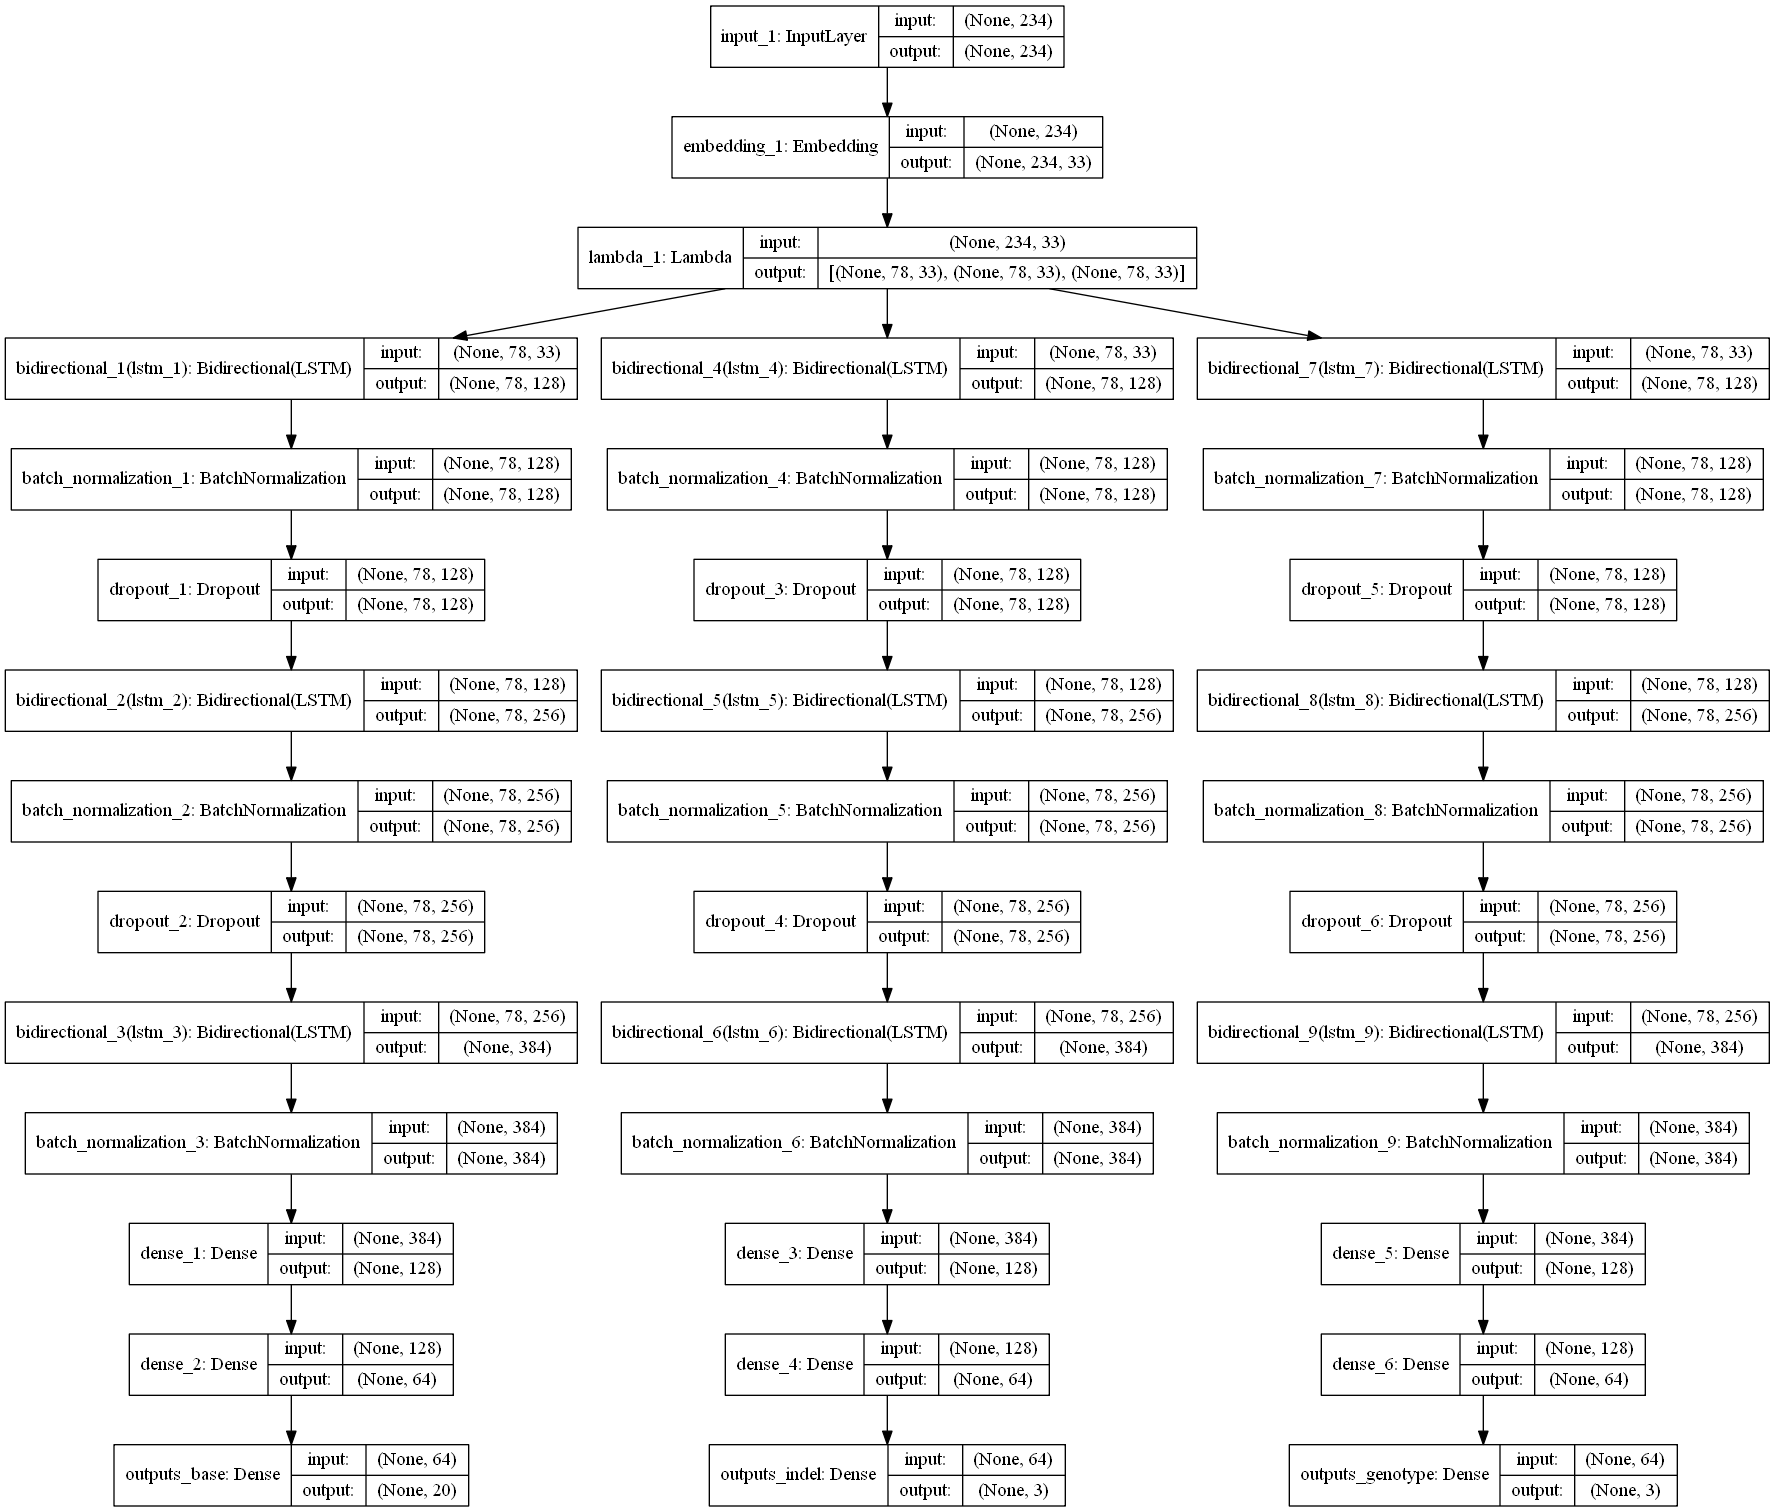
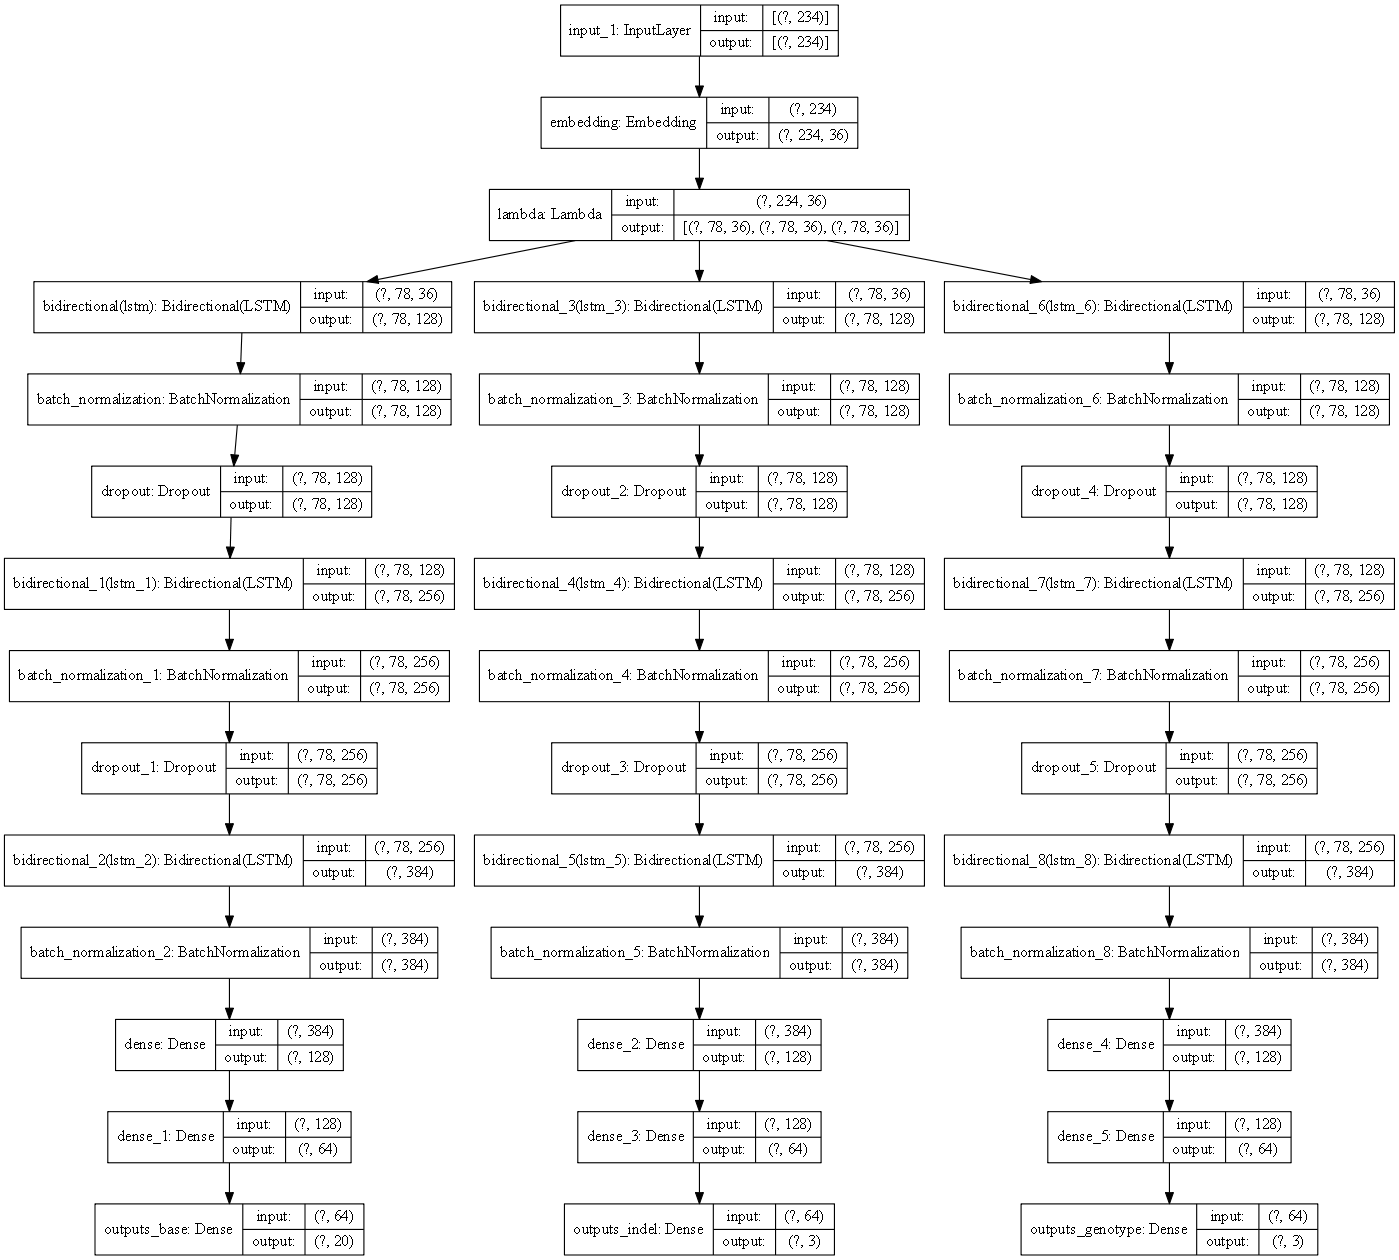
2020-06-17

diff --git a/model/scSNV_model.py b/model/scSNV_model.py
@@ -1,23 +1,9 @@
-# from keras.models import Model
-# from keras.optimizers import Adam, RMSprop
-# from keras.layers import Input, Embedding, LSTM, Bidirectional, Dense, BatchNormalization
-# from keras.layers import Dropout, Lambda
-# from keras.utils import multi_gpu_utils
-# from keras.utils.vis_utils import plot_model
-
+import tensorflow as tf
 from tensorflow.keras.layers import *
 from tensorflow.keras.models import Model
 from tensorflow.keras.optimizers import Adam, RMSprop
-from tensorflow.keras.utils import plot_model
+from tensorflow.keras.utils import plot_model, multi_gpu_model
 from tensorflow.keras.layers import Embedding
-
-
-import tensorflow as tf
-
-
-import os
-os.environ["CUDA_VISIBLE_DEVICES"] = '5, 6'
-
 
 class SCSNVMODEL:
     def __init__(self, input_shape=(234, ), n_base_labels=20, n_indel_labels=3, n_genotype_labels=3, n_lstm_outdim=64, word_maxlen=234, em_inputdim=36, em_outdim=36, lstm_layers=3, dense_layers=2, dense_num=64, drop_out=0.5, lr=0.001, gpus=2, alpha_base=[[1],[3],[3],[3],[5],[1],[3],[3],[3],[5],[1],[3],[3],[3],[5],[1],[3],[3],[3],[5]], alpha_indel=[[1],[5],[5]], alpha_genotype=[[1],[5],[3],[7]], gamma=2.0):
@@ -140,12 +126,12 @@ class SCSNVMODEL:
         outputs_genotype = Dense(self.n_genotype_labels, activation='softmax', name='outputs_genotype')(dense_genotype)
 
         model = Model(inputs=inputs, outputs=[outputs_base, outputs_indel, outputs_genotype], name='model')
+        ## 必须放到model.comile前边
+        plot_model(model, expand_nested=True, show_shapes=True, show_layer_names=True, to_file='model_strcut.png', dpi=80)
 
         # model = multi_gpu_utils(model, multi_gpu_utils=self.gpus)
         # model.compile(optimizer=RMSprop(lr=self.init_lr), loss={'outputs_base': self.multi_category_focal_loss1(self.alpha_base, self.gamma), 'outputs_indel': self.multi_category_focal_loss1(self.alpha_indel, self.gamma), 'outputs_genotype':self.multi_category_focal_loss1(self.alpha_genotype, self.gamma)}, metrics=['acc'])
         model.compile(optimizer=Adam(lr=self.init_lr), loss={'outputs_base':'categorical_crossentropy', 'outputs_indel': 'categorical_crossentropy', 'outputs_genotype':'categorical_crossentropy'}, metrics=['acc'])
-        # plot_model(model, './model_strcut.png', show_shapes=True)
-        # plot_model(model, expand_nested=True, show_shapes=True, to_file='model_strcut.png', dpi=80)
         model.summary()
         return model
 

diff --git a/model/train_process.py b/model/train_process.py
@@ -1,11 +1,8 @@
-# import keras
-import keras.backend as K
-import time
 from .train_data_generator import DataGenerator
 from .scSNV_model import SCSNVMODEL
 import time
-import tensorflow.keras
-from tensorflow.keras.callbacks import TensorBoard
+from tensorflow.keras.callbacks import TensorBoard, EarlyStopping, ModelCheckpoint, LearningRateScheduler
+import tensorflow.keras.backend as K
 
 
 def training(samples_train_data, samples_val_data, epochs=30, generator_params=None, model_params=None, hdf5_file = False, hdf5_fliename=None, mcheckpoint_dir='/home/cailei/bio_project/nbCNV/train_log/model_checkpoint/', mtensorboard_dir='/home/cailei/bio_project/nbCNV/tensorboard_logs/'):
@@ -25,11 +22,11 @@ def training(samples_train_data, samples_val_data, epochs=30, generator_params=N
     if hdf5_file and hdf5_fliename != None:
         model.load_weights(hdf5_fliename)
 
-    cb_1 = tensorflow.keras.callbacks.EarlyStopping(min_delta=0, patience=30, verbose=0, mode='auto')
-    cb_2 = tensorflow.keras.callbacks.ModelCheckpoint(filepath=mcheckpoint_dir+'model_{epoch:02d}.hdf5', verbose=0,
+    cb_1 = EarlyStopping(min_delta=0, patience=30, verbose=0, mode='auto')
+    cb_2 = ModelCheckpoint(filepath=mcheckpoint_dir+'model_{epoch:02d}.hdf5', verbose=0,
                                            save_best_only=False, save_weights_only=False, mode='auto', period=1)
     model_name = 'tensorboard_scSNV_{}'.format(int(time.time()))
-    cb_3 = tensorflow.keras.callbacks.TensorBoard(log_dir=mtensorboard_dir+'{}'.format(model_name))
+    cb_3 = TensorBoard(log_dir=mtensorboard_dir+'{}'.format(model_name))
 
     def scheduler(epoch):
         # 每隔100个epoch，学习率减小为原来的1/10
@@ -40,11 +37,11 @@ def training(samples_train_data, samples_val_data, epochs=30, generator_params=N
             print("lr changed to {}".format(lr * 0.1))
         return K.get_value(model.optimizer.lr)
 
-    cb_4 = tensorflow.keras.callbacks.LearningRateScheduler(scheduler)
+    cb_4 = LearningRateScheduler(scheduler)
     results = model.fit_generator(generator=training_generator,
                                   validation_data=validation_generator,
                                   epochs=epochs,
-                                  callbacks=[cb_1, cb_2, cb_4])
+                                  callbacks=[cb_1, cb_2, cb_3, cb_4])
 
     return training_generator.get_sendin_content()
 

diff --git a/model/train_data_generator.py b/model/train_data_generator.py
@@ -1,9 +1,9 @@
 import numpy as np
-import keras
 from tensorflow.keras.preprocessing.sequence import pad_sequences
-# from tensorflow.keras.utils.np_utils import to_categorical
 from tensorflow.keras.utils import to_categorical
 from tensorflow.keras.utils import Sequence
+
+
 class DataGenerator(Sequence):
     def __init__(self, samples_data, batch_size=128, shuffle=True, word_maxlen=234, label_base=20, label_indel=3, label_genotype=3):
         self.samples_data = samples_data

diff --git a/main.py b/main.py
@@ -6,7 +6,7 @@ from data_process.data_preprocess import DATAPROCESS
 from data_process.data_combine import DATACOMBINE
 from model.train_process import training
 from model.test_process import testing
-from bam.bam_process import BAM
+
 
 def args_func():
     parser = argparse.ArgumentParser(description="scSNV software")
